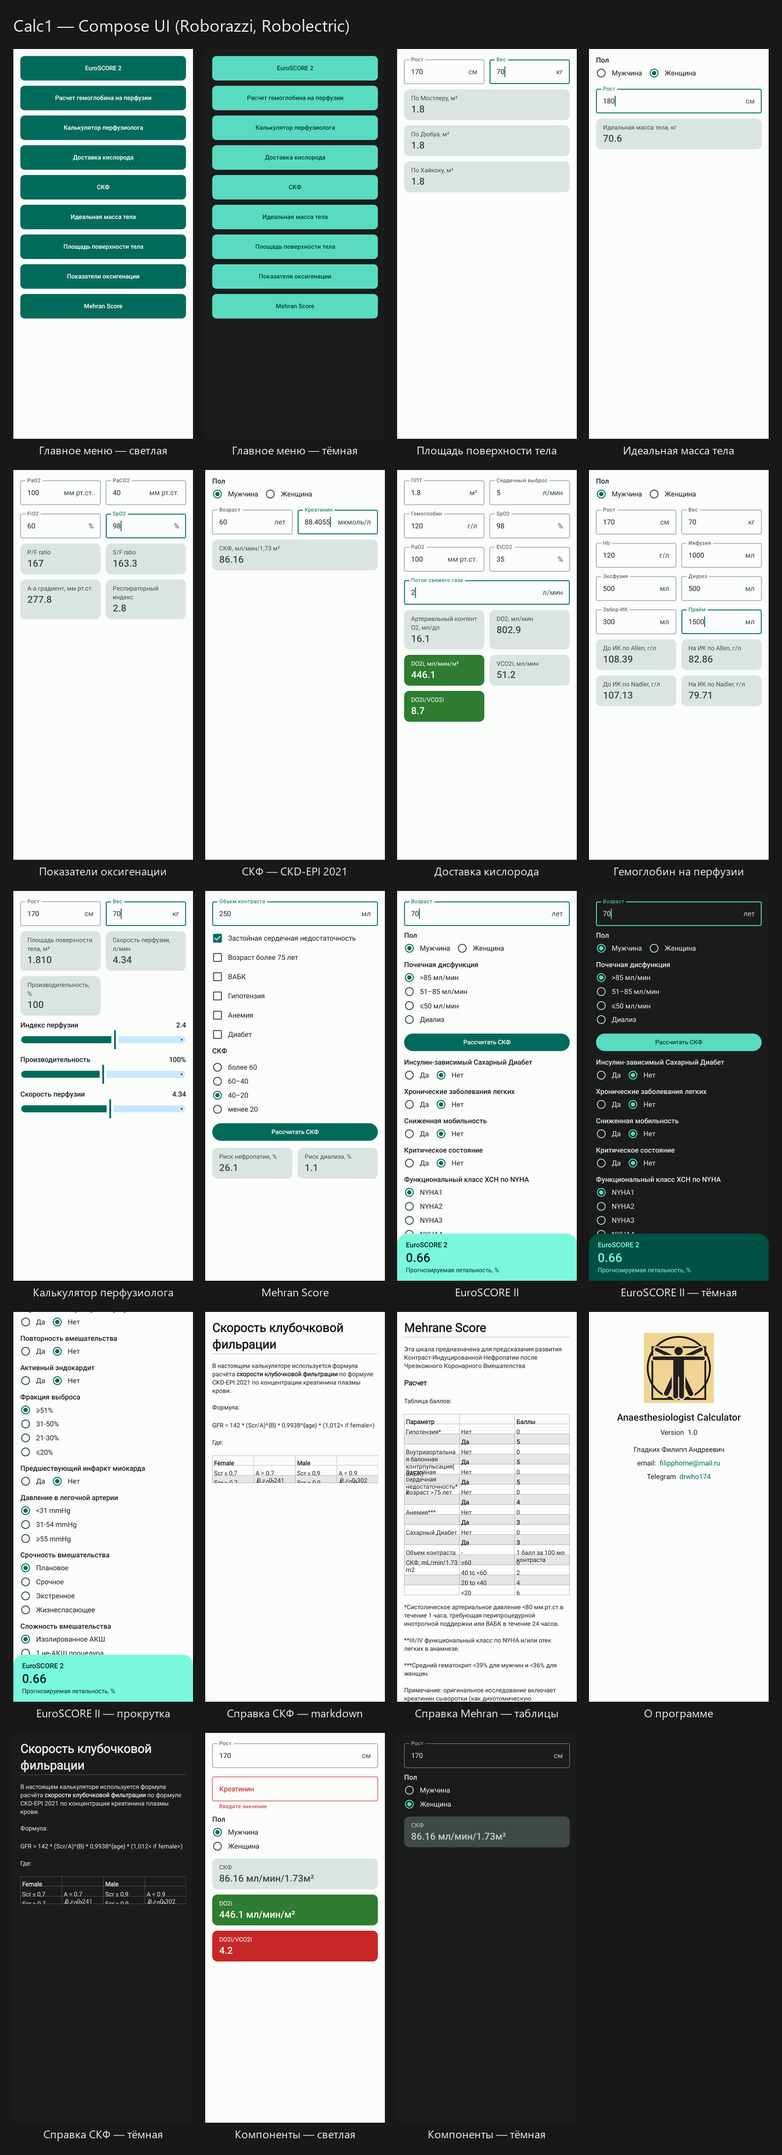
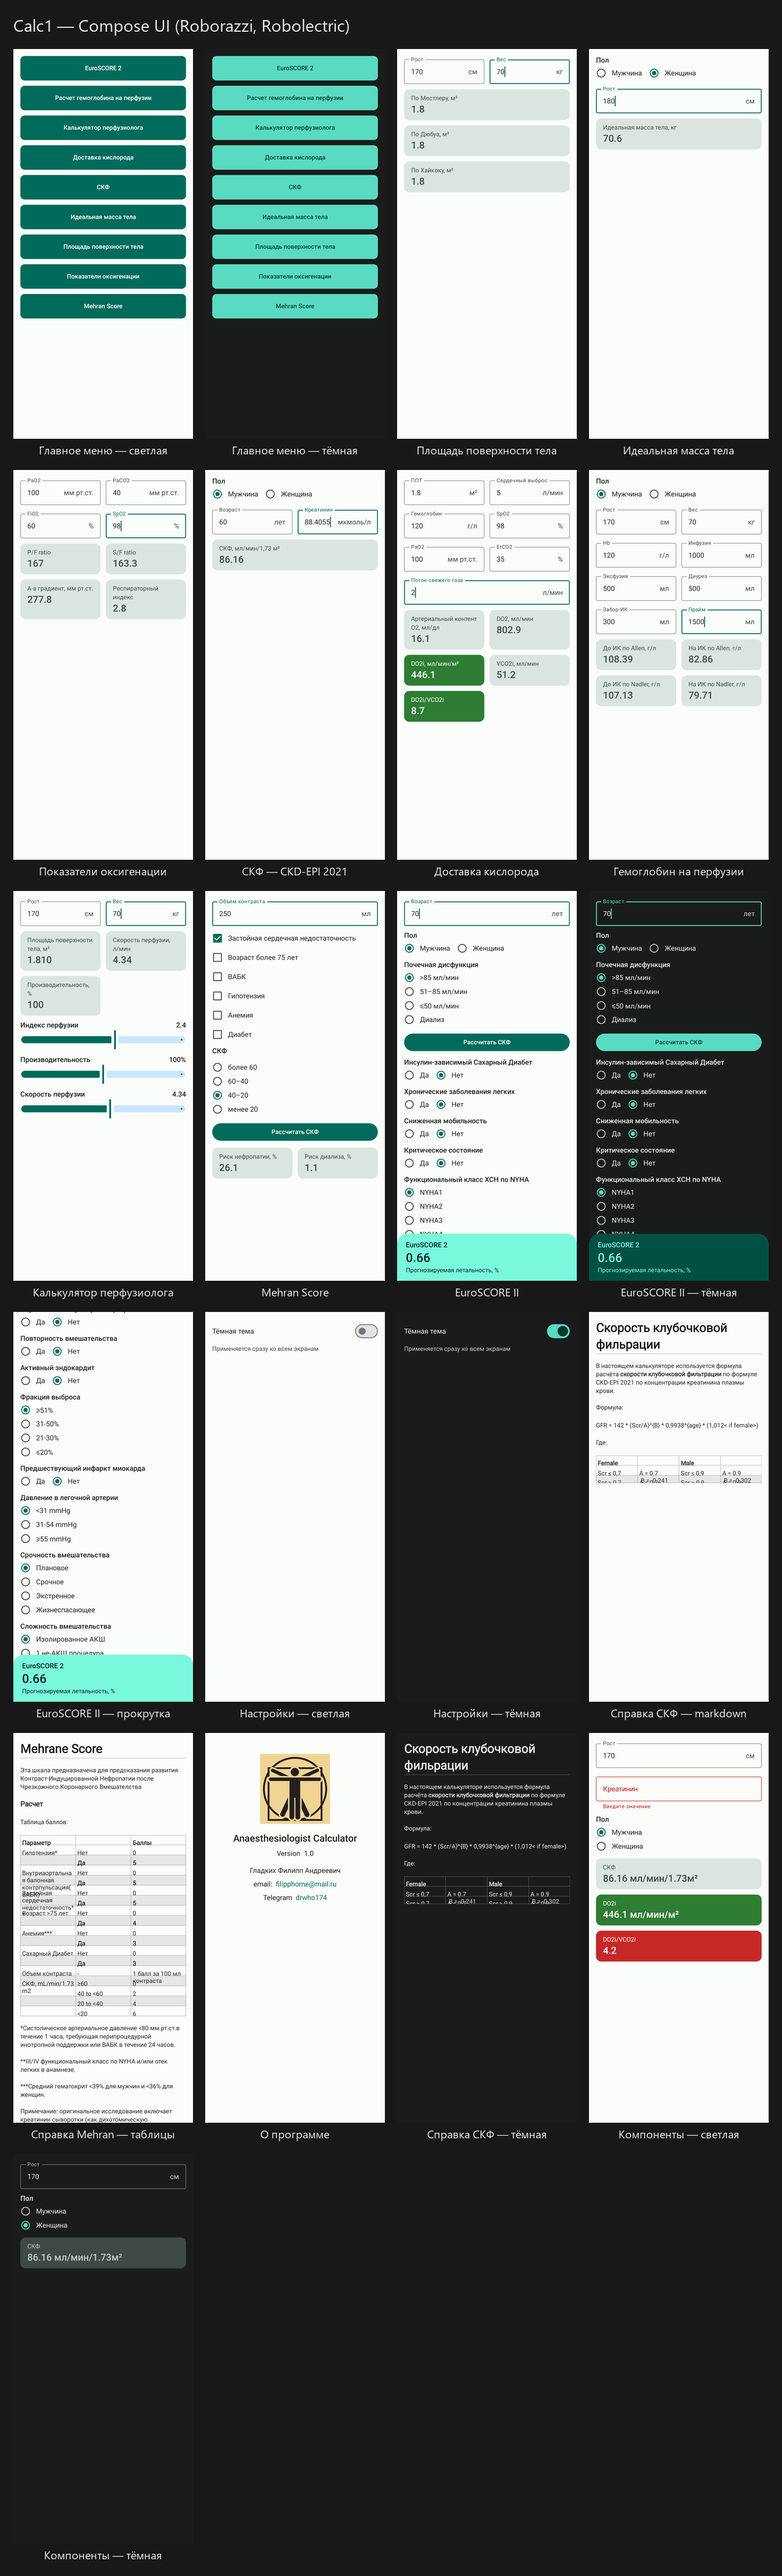
feat(ui): compose settings screen on datastore

diff --git a/app/src/main/java/com/drwho174/calc1/textandsettings/SettingsOnMainMenu.kt b/app/src/main/java/com/drwho174/calc1/textandsettings/SettingsOnMainMenu.kt
@@ -1,41 +1,57 @@
 package com.drwho174.calc1.textandsettings
 
 import android.os.Bundle
+import android.view.LayoutInflater
+import android.view.View
+import android.view.ViewGroup
 import androidx.appcompat.app.AppCompatDelegate
-import androidx.preference.PreferenceFragmentCompat
-import androidx.preference.SwitchPreferenceCompat
-import com.drwho174.calc1.PreferenceRepository
+import androidx.compose.runtime.getValue
+import androidx.compose.runtime.rememberCoroutineScope
+import androidx.fragment.app.Fragment
+import androidx.lifecycle.compose.collectAsStateWithLifecycle
 import com.drwho174.calc1.R
 import com.drwho174.calc1.contract.HasCustomTitle
+import com.drwho174.calc1.data.SettingsRepository
+import com.drwho174.calc1.ui.host.composeScreen
+import com.drwho174.calc1.ui.settings.SettingsScreen
+import kotlinx.coroutines.launch
 
+/**
+ * Настройки на Compose.
+ *
+ * Значение хранится в DataStore; смена темы дополнительно применяется через
+ * AppCompatDelegate, потому что каркас пока фрагментный. На финальном этапе
+ * (Navigation 3) тема станет состоянием Compose и AppCompatDelegate уйдёт.
+ */
+class SettingsOnMainMenu : Fragment(), HasCustomTitle {
 
-class SettingsOnMainMenu : PreferenceFragmentCompat() , HasCustomTitle{
+    private val settingsRepository by lazy { SettingsRepository(requireContext()) }
 
-    override fun onCreatePreferences(savedInstanceState: Bundle?, rootKey: String?) {
+    override fun onCreateView(
+        inflater: LayoutInflater,
+        container: ViewGroup?,
+        savedInstanceState: Bundle?
+    ): View = composeScreen {
+        val scope = rememberCoroutineScope()
+        val darkTheme by settingsRepository.darkTheme
+            .collectAsStateWithLifecycle(initialValue = false)
 
-        setPreferencesFromResource(R.xml.preference_settings,rootKey)
-        val themeSelector : SwitchPreferenceCompat? = findPreference("THEME_SET")
-
-        val prefRepository = PreferenceRepository(context?.applicationContext ?: return)
-
-        // SwitchPreferenceCompat automatically shows the persisted value,
-        // so there is no need to call setDefaultValue() here.
-
-        themeSelector?.setOnPreferenceChangeListener { _, newValue ->
-            val darkTheme = newValue == true
-
-            if (darkTheme) {
-                AppCompatDelegate.setDefaultNightMode(AppCompatDelegate.MODE_NIGHT_YES)
-            } else {
-                AppCompatDelegate.setDefaultNightMode(AppCompatDelegate.MODE_NIGHT_NO)
-            }
-            prefRepository.setThemeSetting(darkTheme)
-
-            true
-        }
-
+        SettingsScreen(
+            darkTheme = darkTheme,
+            onDarkThemeChange = { enabled ->
+                scope.launch {
+                    settingsRepository.setDarkTheme(enabled)
+                    AppCompatDelegate.setDefaultNightMode(
+                        if (enabled) {
+                            AppCompatDelegate.MODE_NIGHT_YES
+                        } else {
+                            AppCompatDelegate.MODE_NIGHT_NO
+                        }
+                    )
+                }
+            },
+        )
     }
 
     override fun getTitleRes(): Int = R.string.name_settings
-
 }

diff --git a/app/src/main/java/com/drwho174/calc1/ui/settings/SettingsScreen.kt b/app/src/main/java/com/drwho174/calc1/ui/settings/SettingsScreen.kt
@@ -1,0 +1,74 @@
+package com.drwho174.calc1.ui.settings
+
+import androidx.compose.foundation.background
+import androidx.compose.foundation.layout.Arrangement
+import androidx.compose.foundation.layout.Column
+import androidx.compose.foundation.layout.Row
+import androidx.compose.foundation.layout.fillMaxSize
+import androidx.compose.foundation.layout.fillMaxWidth
+import androidx.compose.foundation.layout.padding
+import androidx.compose.foundation.rememberScrollState
+import androidx.compose.foundation.selection.toggleable
+import androidx.compose.foundation.verticalScroll
+import androidx.compose.material3.MaterialTheme
+import androidx.compose.material3.Switch
+import androidx.compose.material3.Text
+import androidx.compose.runtime.Composable
+import androidx.compose.ui.Alignment
+import androidx.compose.ui.Modifier
+import androidx.compose.ui.res.stringResource
+import androidx.compose.ui.semantics.Role
+import androidx.compose.ui.tooling.preview.Preview
+import androidx.compose.ui.unit.dp
+import com.drwho174.calc1.R
+import com.drwho174.calc1.ui.theme.Calc1Theme
+
+/** Настройки: пока единственный переключатель — тёмная тема. */
+@Composable
+fun SettingsScreen(
+    darkTheme: Boolean,
+    onDarkThemeChange: (Boolean) -> Unit,
+    modifier: Modifier = Modifier,
+) {
+    Column(
+        modifier = modifier
+            .fillMaxSize()
+            .background(MaterialTheme.colorScheme.background)
+            .verticalScroll(rememberScrollState())
+            .padding(16.dp),
+        verticalArrangement = Arrangement.spacedBy(4.dp),
+    ) {
+        Row(
+            modifier = Modifier
+                .fillMaxWidth()
+                .toggleable(
+                    value = darkTheme,
+                    onValueChange = onDarkThemeChange,
+                    role = Role.Switch,
+                )
+                .padding(vertical = 12.dp),
+            verticalAlignment = Alignment.CenterVertically,
+        ) {
+            Text(
+                text = stringResource(R.string.settings_theme),
+                style = MaterialTheme.typography.bodyLarge,
+                modifier = Modifier.weight(1f),
+            )
+            Switch(checked = darkTheme, onCheckedChange = null)
+        }
+
+        Text(
+            text = stringResource(R.string.settings_theme_hint),
+            style = MaterialTheme.typography.bodyMedium,
+            color = MaterialTheme.colorScheme.onSurfaceVariant,
+        )
+    }
+}
+
+@Preview(showBackground = true)
+@Composable
+private fun SettingsScreenPreview() {
+    Calc1Theme {
+        SettingsScreen(darkTheme = false, onDarkThemeChange = {})
+    }
+}

diff --git a/app/src/main/java/com/drwho174/calc1/data/SettingsRepository.kt b/app/src/main/java/com/drwho174/calc1/data/SettingsRepository.kt
@@ -1,0 +1,54 @@
+package com.drwho174.calc1.data
+
+import android.content.Context
+import androidx.datastore.core.DataStore
+import androidx.datastore.preferences.core.Preferences
+import androidx.datastore.preferences.core.booleanPreferencesKey
+import androidx.datastore.preferences.core.edit
+import androidx.datastore.preferences.core.emptyPreferences
+import androidx.datastore.preferences.preferencesDataStore
+import java.io.IOException
+import kotlinx.coroutines.flow.Flow
+import kotlinx.coroutines.flow.catch
+import kotlinx.coroutines.flow.map
+
+private val Context.settingsDataStore: DataStore<Preferences> by preferencesDataStore(
+    name = "calc1_settings",
+)
+
+/**
+ * Настройки приложения на DataStore.
+ *
+ * При первом чтении, если в DataStore ещё нет значения, берётся старый ключ
+ * `THEME_SET` из SharedPreferences — так настройки не теряются после перехода
+ * с `PreferenceFragmentCompat`.
+ */
+class SettingsRepository(context: Context) {
+
+    private val appContext = context.applicationContext
+    private val themeKey = booleanPreferencesKey(KEY_THEME)
+
+    val darkTheme: Flow<Boolean> = appContext.settingsDataStore.data
+        .catch { error ->
+            if (error is IOException) emit(emptyPreferences()) else throw error
+        }
+        .map { preferences -> preferences[themeKey] ?: legacyTheme() }
+
+    suspend fun setDarkTheme(enabled: Boolean) {
+        appContext.settingsDataStore.edit { preferences ->
+            preferences[themeKey] = enabled
+        }
+        // Старый ключ больше не нужен: единственный источник — DataStore.
+        legacyPreferences().edit().remove(KEY_THEME).apply()
+    }
+
+    private fun legacyPreferences() =
+        appContext.getSharedPreferences(LEGACY_STORE, Context.MODE_PRIVATE)
+
+    private fun legacyTheme(): Boolean = legacyPreferences().getBoolean(KEY_THEME, false)
+
+    private companion object {
+        const val KEY_THEME = "THEME_SET"
+        const val LEGACY_STORE = "settings"
+    }
+}

diff --git a/app/src/test/java/com/drwho174/calc1/ui/settings/SettingsScreenTest.kt b/app/src/test/java/com/drwho174/calc1/ui/settings/SettingsScreenTest.kt
@@ -1,0 +1,61 @@
+package com.drwho174.calc1.ui.settings
+
+import androidx.compose.ui.test.junit4.createComposeRule
+import androidx.compose.ui.test.onNodeWithText
+import androidx.compose.ui.test.onRoot
+import androidx.compose.ui.test.performClick
+import com.drwho174.calc1.ui.theme.Calc1Theme
+import com.github.takahirom.roborazzi.captureRoboImage
+import org.junit.Assert.assertEquals
+import org.junit.Rule
+import org.junit.Test
+import org.junit.runner.RunWith
+import org.robolectric.RobolectricTestRunner
+import org.robolectric.annotation.Config
+import org.robolectric.annotation.GraphicsMode
+
+@RunWith(RobolectricTestRunner::class)
+@GraphicsMode(GraphicsMode.Mode.NATIVE)
+@Config(sdk = [35], qualifiers = "w411dp-h891dp-xhdpi")
+class SettingsScreenTest {
+
+    @get:Rule
+    val compose = createComposeRule()
+
+    @Test
+    fun settings_lightTheme_switchOff() {
+        compose.setContent {
+            Calc1Theme(darkTheme = false) {
+                SettingsScreen(darkTheme = false, onDarkThemeChange = {})
+            }
+        }
+
+        compose.onNodeWithText("Тёмная тема").assertExists()
+        compose.onRoot().captureRoboImage("src/test/screenshots/settings_light.png")
+    }
+
+    @Test
+    fun settings_darkTheme_switchOn() {
+        compose.setContent {
+            Calc1Theme(darkTheme = true) {
+                SettingsScreen(darkTheme = true, onDarkThemeChange = {})
+            }
+        }
+
+        compose.onNodeWithText("Тёмная тема").assertExists()
+        compose.onRoot().captureRoboImage("src/test/screenshots/settings_dark.png")
+    }
+
+    @Test
+    fun tappingRowInvokesCallback() {
+        var value: Boolean? = null
+        compose.setContent {
+            Calc1Theme {
+                SettingsScreen(darkTheme = false, onDarkThemeChange = { value = it })
+            }
+        }
+
+        compose.onNodeWithText("Тёмная тема").performClick()
+        assertEquals(true, value)
+    }
+}

diff --git a/app/src/main/java/com/drwho174/calc1/MainActivity.kt b/app/src/main/java/com/drwho174/calc1/MainActivity.kt
@@ -17,12 +17,21 @@ import com.drwho174.calc1.contract.Navigator
 import com.drwho174.calc1.databinding.ActivityMainBinding
 import com.drwho174.calc1.ui.about.AppAboutFragment
 import com.drwho174.calc1.textandsettings.SettingsOnMainMenu
+import androidx.appcompat.app.AppCompatDelegate
+import androidx.lifecycle.lifecycleScope
+import com.drwho174.calc1.data.SettingsRepository
+import kotlinx.coroutines.flow.first
+import kotlinx.coroutines.launch
 
 
 class MainActivity : AppCompatActivity(), Navigator {
 
 
     private lateinit var binding: ActivityMainBinding
+
+    private val settingsRepository: SettingsRepository by lazy {
+        SettingsRepository(applicationContext)
+    }
 
     private val currentFragment: Fragment
         get() = supportFragmentManager.findFragmentById(R.id.fragmentContainer)!!
@@ -45,6 +54,20 @@ class MainActivity : AppCompatActivity(), Navigator {
 
         binding = ActivityMainBinding.inflate(layoutInflater).also { setContentView(it.root) }
         setSupportActionBar(binding.mainToolbar)
+
+        // Тема хранится в DataStore; применяем сохранённое значение при старте,
+        // но только если оно отличается — иначе Activity пересоздастся зря.
+        lifecycleScope.launch {
+            val darkTheme = settingsRepository.darkTheme.first()
+            val targetMode = if (darkTheme) {
+                AppCompatDelegate.MODE_NIGHT_YES
+            } else {
+                AppCompatDelegate.MODE_NIGHT_NO
+            }
+            if (AppCompatDelegate.getDefaultNightMode() != targetMode) {
+                AppCompatDelegate.setDefaultNightMode(targetMode)
+            }
+        }
 
         if (savedInstanceState == null) {
             supportFragmentManager

diff --git a/app/src/main/java/com/drwho174/calc1/MainMenu.kt b/app/src/main/java/com/drwho174/calc1/MainMenu.kt
@@ -7,7 +7,6 @@ import android.view.MenuInflater
 import android.view.MenuItem
 import android.view.View
 import android.view.ViewGroup
-import androidx.appcompat.app.AppCompatDelegate
 import androidx.compose.ui.platform.ComposeView
 import androidx.compose.ui.platform.ViewCompositionStrategy
 import androidx.core.view.MenuProvider
@@ -18,21 +17,6 @@ import com.drwho174.calc1.ui.menu.MainMenuScreen
 import com.drwho174.calc1.ui.theme.Calc1Theme
 
 class MainMenu : Fragment(), HasCustomTitle {
-
-    override fun onCreate(savedInstanceState: Bundle?) {
-        super.onCreate(savedInstanceState)
-
-        // Тема по-прежнему применяется через AppCompatDelegate: экраны на
-        // фрагментах читают ночные ресурсы, а Calc1Theme следует uiMode.
-        val prefRepository = PreferenceRepository(requireContext().applicationContext)
-        AppCompatDelegate.setDefaultNightMode(
-            if (prefRepository.getThemeSetting()) {
-                AppCompatDelegate.MODE_NIGHT_YES
-            } else {
-                AppCompatDelegate.MODE_NIGHT_NO
-            }
-        )
-    }
 
     override fun onCreateView(
         inflater: LayoutInflater,

diff --git a/tools/make_collage.py b/tools/make_collage.py
@@ -27,6 +27,8 @@ ITEMS = [
     ("calc_euroscore.png", "EuroSCORE II"),
     ("calc_euroscore_dark.png", "EuroSCORE II — тёмная"),
     ("calc_euroscore_scrolled.png", "EuroSCORE II — прокрутка"),
+    ("settings_light.png", "Настройки — светлая"),
+    ("settings_dark.png", "Настройки — тёмная"),
     ("about_gfr_light.png", "Справка СКФ — markdown"),
     ("about_mehran_light.png", "Справка Mehran — таблицы"),
     ("about_app_light.png", "О программе"),
